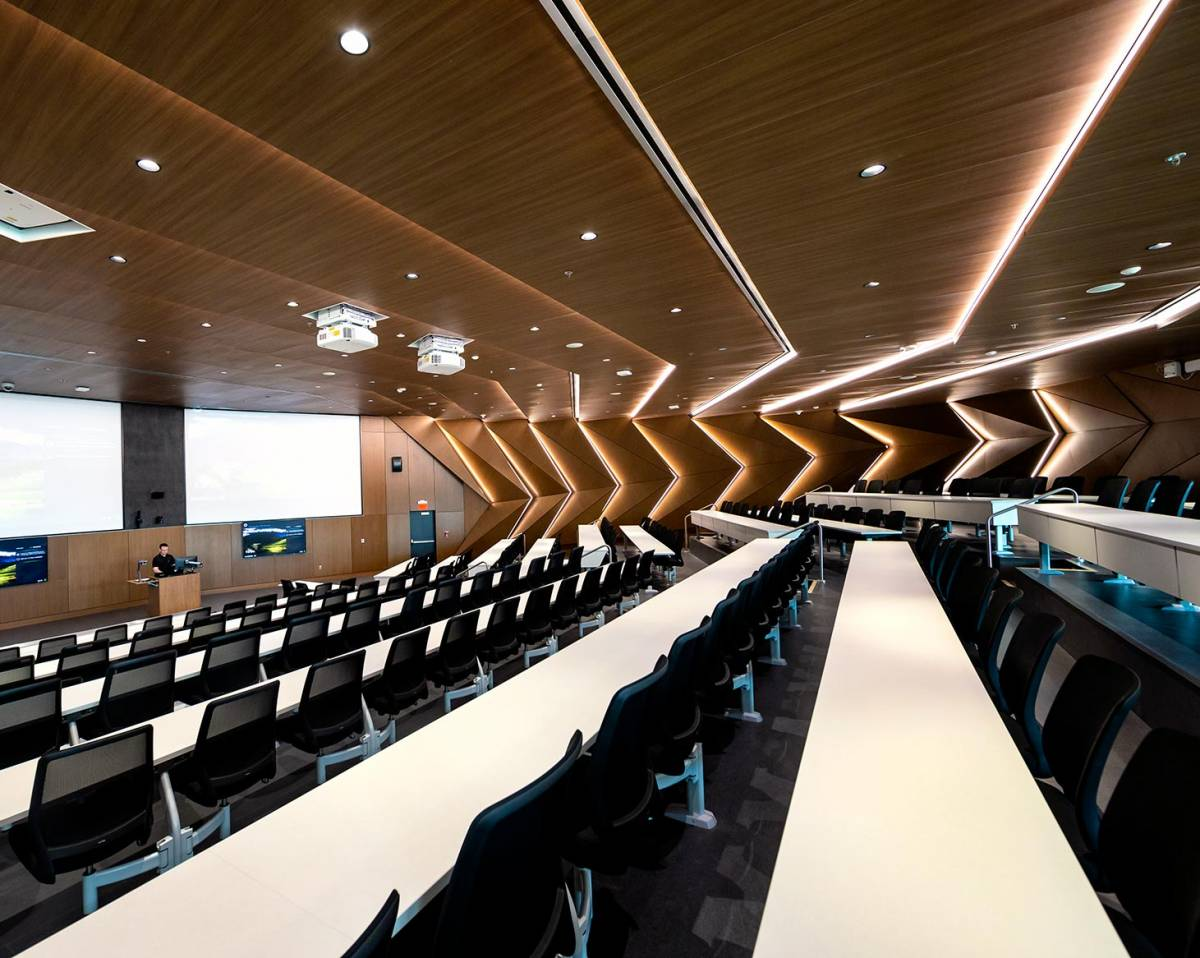
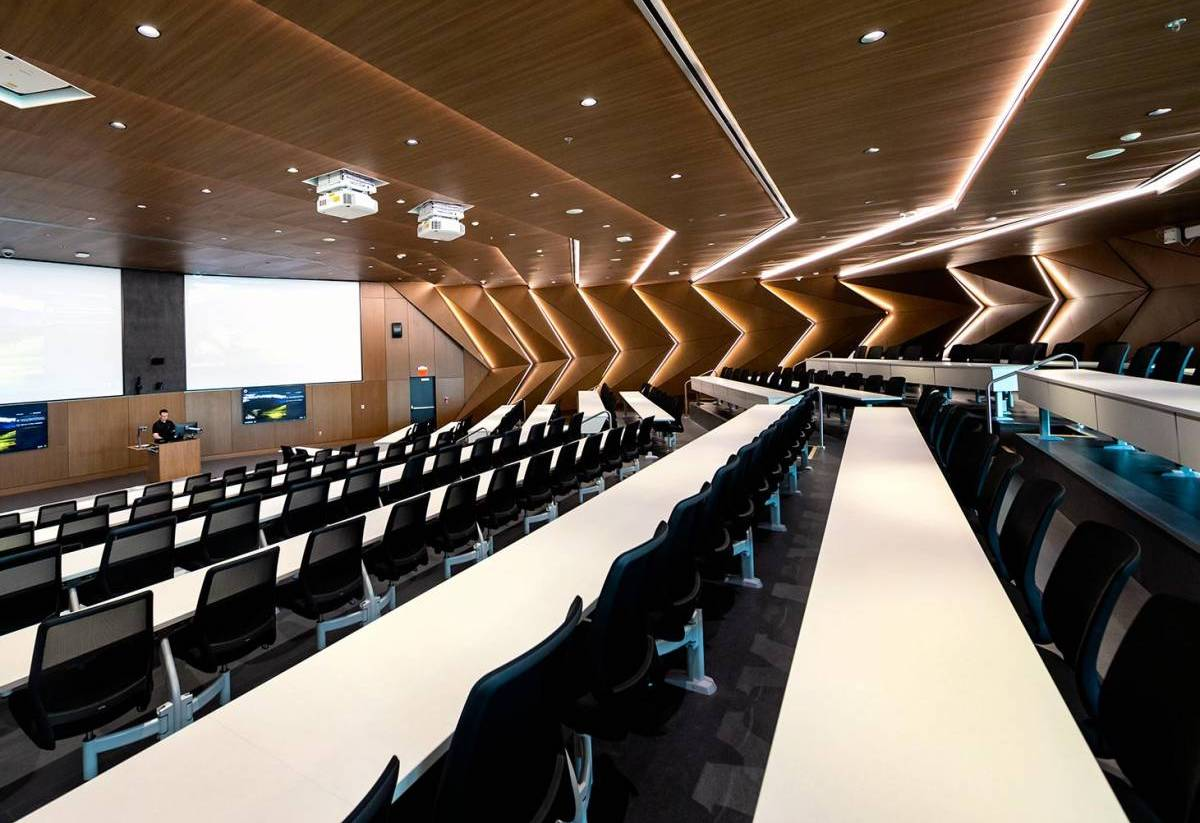
added four news items and updated call page with rump session announcement

diff --git a/content/travel.md b/content/travel.md
@@ -8,22 +8,22 @@ menu:
         weight: 99
 
 ---
+{{< button-link label="Parking" url="https://www.offcampusparking.com/collegepark" icon="" >}}{{< button-link label="Maps & Directions" url="https://cvs.umd.edu/visit/maps-directions" icon="" >}}{{< button-link label="Campus Construction" url="https://admin.umd.edu/current-projects/purple-line/campus-construction-notices" icon="" >}}{{< button-link label="Washington Metro" url="https://www.wmata.com/service/index.cfm" icon="" >}}{{< button-link label="UMD Shuttle Bus" url="https://transportation.umd.edu/shuttle-um/104/501" icon="" >}}
+
+## Transportation
+
+<strong>Three regional airports</strong> serve the greater Washington, D.C. area: Dulles International Airport (IAD); Ronald Reagan National Airport (DCA); and Baltimore-Washington International Airport (BWI). All three are within an hour drive to the campus and local hotels. Detailed driving directions from each airport to the UMD campus are available above.
+
+<strong>Significant construction</strong> is taking place on the UMD campus due to the Purple Line, a new light rail that will extend from New Carrollton in Prince George’s County to Silver Spring and Bethesda in Montgomery County. <strong>Therefore parking is unavailable for visitors on campus, and pedestrian detours are likely.</strong> The closest parking lot is diagonally across the street from the Iribe Center next to The Hotel, available via <strong><a href="https://www.offcampusparking.com/collegepark">the parking app SpotHero.</a></strong>
+
+Typically, the university is accessible via the College Park/U of MD station on the <a href="https://www.wmata.com/">Washington Metro</a> system's Green Line. <strong>However, parts of the Green Line serving College Park will be closed during QCrypt due to ongoing maintenance</strong>. Buses are provided at closed stations in lieu of the Metro trains, but they are usually overcrowded and inefficient. If you do travel to the College Park/U of MD station by bus, <a href="https://transportation.umd.edu/shuttle-um/104/501">a free UMD shuttle bus #104</a> is available every eight minutes on weekdays between the station and campus.
+
 ## Venue
 The venue for QCrypt2023 is the <a href="https://iribe.umd.edu/"> Brendan Iribe Center for Computer Science and Engineering</a>, a state-of-the-art building that houses the University of Maryland’s <a href="https://www.cs.umd.edu/">Department of Computer Science</a> and <a href="https://www.cs.umd.edu/">Institute for Advanced Computer Studies (UMIACS)</a>, which is the parent organization of the <a href="https://quics.umd.edu/">Joint Center for Quantum Information and Computer Science (QuICS)</a>. The building includes the Antonov Auditorium that collaboratively seats 300 people, a second 100-seat auditorium for overflow, an expansive lobby space for poster sessions, sponsor tables and coffee breaks, and a number of seminar and classrooms for breakout sessions. The building's official address is: <a href="https://goo.gl/maps/m6TfZezHoabJfroC6">8125 Paint Branch Dr, College Park, MD 20742.</a>
 
 <img id="venue" src="/images/Iribe.jpg" style="height:300px;"/>
-<img id="auditorium" src="/images/auditorium2.jpg" style="height:400px;"/>
+<img id="auditorium" src="/images/auditorium2.jpg" style="height:300px;"/>
 
-<h2>Transportation</h2>
-
-<strong>Three regional airports</strong> serve the greater Washington, D.C. area: Dulles International Airport (IAD); Ronald Reagan National Airport (DCA); and Baltimore-Washington International Airport (BWI). All three are within an hour drive to the campus and local hotels. Detailed driving directions from each airport to the UMD campus are available below.
-
-<strong>Significant construction</strong> is taking place on the UMD campus due to the Purple Line, a new light rail that will extend from New Carrollton in Prince George’s County to Silver Spring and Bethesda in Montgomery County. <strong>Therefore parking is unavailable for visitors on campus, and pedestrian detours are likely.</strong> The closest parking lot is diagonolly across the street from the Iribe Center next to The Hotel, available via <strong><a href="https://www.offcampusparking.com/collegepark">the parking app SpotHero.</a></strong>
-
-Typically, the university is accessible via the College Park/U of MD station on the <a href="https://www.wmata.com/">Washington Metro</a> system's Green Line. <strong>However, parts of the Green Line serving College Park will be closed during QCrypt due to ongoing maintenance</strong>. Buses are provided at closed stations in lieu of the Metro trains, but they are usually overcrowded and inefficient. If you do travel to the College Park/U of MD station by bus, <a href="https://transportation.umd.edu/shuttle-um/104/501">a free UMD shuttle bus #104</a> is available every eight minutes on weekdays between the station and campus.
-
-
-{{< button-link label="Parking" url="https://www.offcampusparking.com/collegepark" icon="" >}}{{< button-link label="Maps & Directions" url="https://cvs.umd.edu/visit/maps-directions" icon="" >}}{{< button-link label="Campus Construction" url="https://admin.umd.edu/current-projects/purple-line/campus-construction-notices" icon="" >}}{{< button-link label="Washington Metro" url="https://www.wmata.com/service/index.cfm" icon="" >}}{{< button-link label="UMD Shuttle Bus" url="https://transportation.umd.edu/shuttle-um/104/501" icon="" >}}
 <h2>Local Accommodations</h2>
 The Conference and Visitor Services for the University of Maryland has partnered with many local hotels to provide competitive rates for UMD visitors. These hotels can individually be accessed <a href="https://campustravel.com/university/university-of-maryland-conference-visitor-services/">here</a>, or go <a href=" https://campustravel.com/university/university-of-maryland-conference-visitor-services/university-of-maryland-conference-visitor-services-search/"> here </a>to compare available rates. 
 <h2>VISA</h2>

diff --git a/content/news.md b/content/news.md
@@ -9,14 +9,21 @@ menu:
 ---
 
 ## News
-	
+> <h3>July 24 – <strong>Call for Rump Session Submissions!</h3></strong><body style="text-align:left">Did you miss the deadline for a talk submission but still want to participate? Do you have an idea that you want to run by a few hundred quantum crypto experts? Consider submitting a ‘Rump Session’ talk or act. Rump session talks are typically about five minutes, more informal and maybe even a bit more fun. You can submit an idea, act or performance for a Rump Session to {{< button-link label="2023@qcrypt.net" url="mailto:2023@qcrypt.net?subject=QCrypt Rump Session" icon="email" >}} and we will let you know if you made the cut. We will cut off submissions when we fill the session—so get your ideas in quickly!</body>
+
+> <h3>July 19 – <strong>Schedule Posted</h3></strong><body style="text-align:left">A packed <a href="https://2023.qcrypt.net/schedule">five day schedule</a> is now available on the conference website with three tutorial talks, seven invited talks, 32 contributing talks and over 100 posters presentations. There will also be an evening reception and a banquet dinner.</body>
+
+> <h3>July 19 – <strong>Parking and Construction Updates</h3></strong><body style="text-align:left">Significant construction is taking place on the UMD campus due to the Purple Line, a new light rail that will extend from New Carrollton in Prince George’s County to Silver Spring and Bethesda in Montgomery County. Therefore parking is unavailable for visitors on campus, and pedestrian detours are likely. The closest parking lot is diagonally across the street from the Iribe Center next to The Hotel, available via <strong><a href="https://www.offcampusparking.com/collegepark">the parking app SpotHero.</a></strong><br><br>Typically, the university is accessible via the College Park/U of MD station on the <a href="https://www.wmata.com/">Washington Metro</a> system's Green Line. <strong>However, parts of the Green Line serving College Park will be closed during QCrypt due to ongoing maintenance</strong>. Buses are provided at closed stations in lieu of the Metro trains, but they are usually overcrowded and inefficient. If you do travel to the College Park/U of MD station by bus, <a href="https://transportation.umd.edu/shuttle-um/104/501">a free UMD shuttle bus #104</a> is available every eight minutes on weekdays between the station and campus. See the <a href="https://2023.qcrypt.net/travel/">travel</a> tab for more information.</body>
+
+> <h3>July 19 – <strong>Volunteer for Session Chair</h3></strong><body style="text-align:left">This is a good opportunity to raise your profile in the world of QCrypt and Quantum Cryptography. If you would like to volunteer to chair a technical session during QCrypt 2023—please email the organizers {{< button-link label="2023@qcrypt.net" url="mailto:2023@qcrypt.net?subject=QCrypt Session Chair" icon="email" >}}with the subject ‘QCrypt Session Chair.’</body>
+
 > <h3>July 9 – <strong>Visa and ESTA info</h3></strong><body style="text-align:left">If needed, the responsibility for obtaining a visa is on the attendee. Attendees from certain countries <a style="color: blue" href="https://esta.cbp.dhs.gov/esta">may qualify for a visa waiver</a>. However, attendees will still require <a style="color: blue" href="https://esta.cbp.dhs.gov/esta">Electronic System for Travel Authorization (ESTA)</a> approval prior to travel.</body>
 
 > <h3>July 8 – <strong>Early Bird Registration Deadline Extended</h3></strong><body style="text-align:left">The deadline for the early bird registration rate has been extended to July 15. Be sure to <a style="color: blue" href="/registration">register</a> for your spot before prices go up.</body>
 		
 > <h3>July 7 – <strong>UMD President and NIST Associate Director to Address QCrypt '23</h3></strong><body style="text-align:left">We are delighted to announce that UMD President Dr. Darryll Pines and NIST Associate Director for Laboratory Programs Dr. Charles Romine will <a style="color: blue" href="/speakers">address QCrypt</a> at the reception on Monday, August 14.</body>
 		
-> <h3>July 6 – <strong>Deadline For Registration Fee Waiver Extended</strong></h3> <body style="text-align:left">A limited amount of funding is available to support students who need assistance and would not be able to attend without it. Students who seek a fee waiver should <a style="color: blue" href="mailto:2023@qcrypt.net?subject=Sponsorship Enquiry">write to the conference organizers</a> with the subject line "QCrypt 2023 Student Fee Waiver" by July 15 to receive further instructions.</a>
+> <h3>July 6 – <strong>Deadline For Registration Fee Waiver Extended</strong></h3> <body style="text-align:left">A limited amount of funding is available to support students who need assistance and would not be able to attend without it. Students who seek a fee waiver should write to the conference organizers {{< button-link label="2023@qcrypt.net" url="mailto:2023@qcrypt.net?subject=QCrypt 2023 Student Fee Waiver" icon="email" >}} with the subject line "QCrypt 2023 Student Fee Waiver" by July 15 to receive further instructions.</a>
 
 > <h3>June 30 – <strong>Industry Panel Announced</strong></h3><body style="text-align:left"><a style="color: blue" href="/speakers">An industry panel</a> discussion will take place on Thursday morning, including representatives from IDQuantique, Toshiba, Cisco, Qubitekk and NIST.
 

diff --git a/content/call.md b/content/call.md
@@ -30,6 +30,9 @@ Our poster is now available! Please <a href="/poster">download and print it your
 |<strike>Sat, 8 July 2023</strike>|<strike>Poster acceptance notification</strike>|
 |14-18 August 2023| QCrypt 2023|
 
+## Call for Rump Session Submissions
+Did you miss the deadline for a talk submission but still want to participate? Do you have an idea that you want to run by a few hundred quantum crypto experts? Consider submitting a ‘Rump Session’ talk or act. Rump session talks are typically about five minutes, more informal and maybe even a bit more fun. You can submit an idea, act or performance for a Rump Session to {{< button-link label="2023@qcrypt.net" url="mailto:2023@qcrypt.net?subject=QCrypt Rump Session" icon="email" >}} and we will let you know if you made the cut. We will cut off submissions when we fill the session—so get your ideas in quickly!
+
 <!--
 Subscribe to <a href="https://calendar.google.com/calendar/embed?src=4f9rvlunmmrkpih1ibo11goo64%40group.calendar.google.com&ctz=Europe%2FAmsterdam"  target="_blank">our calendar</a> to stay updated about the official dates and events.
 -->
